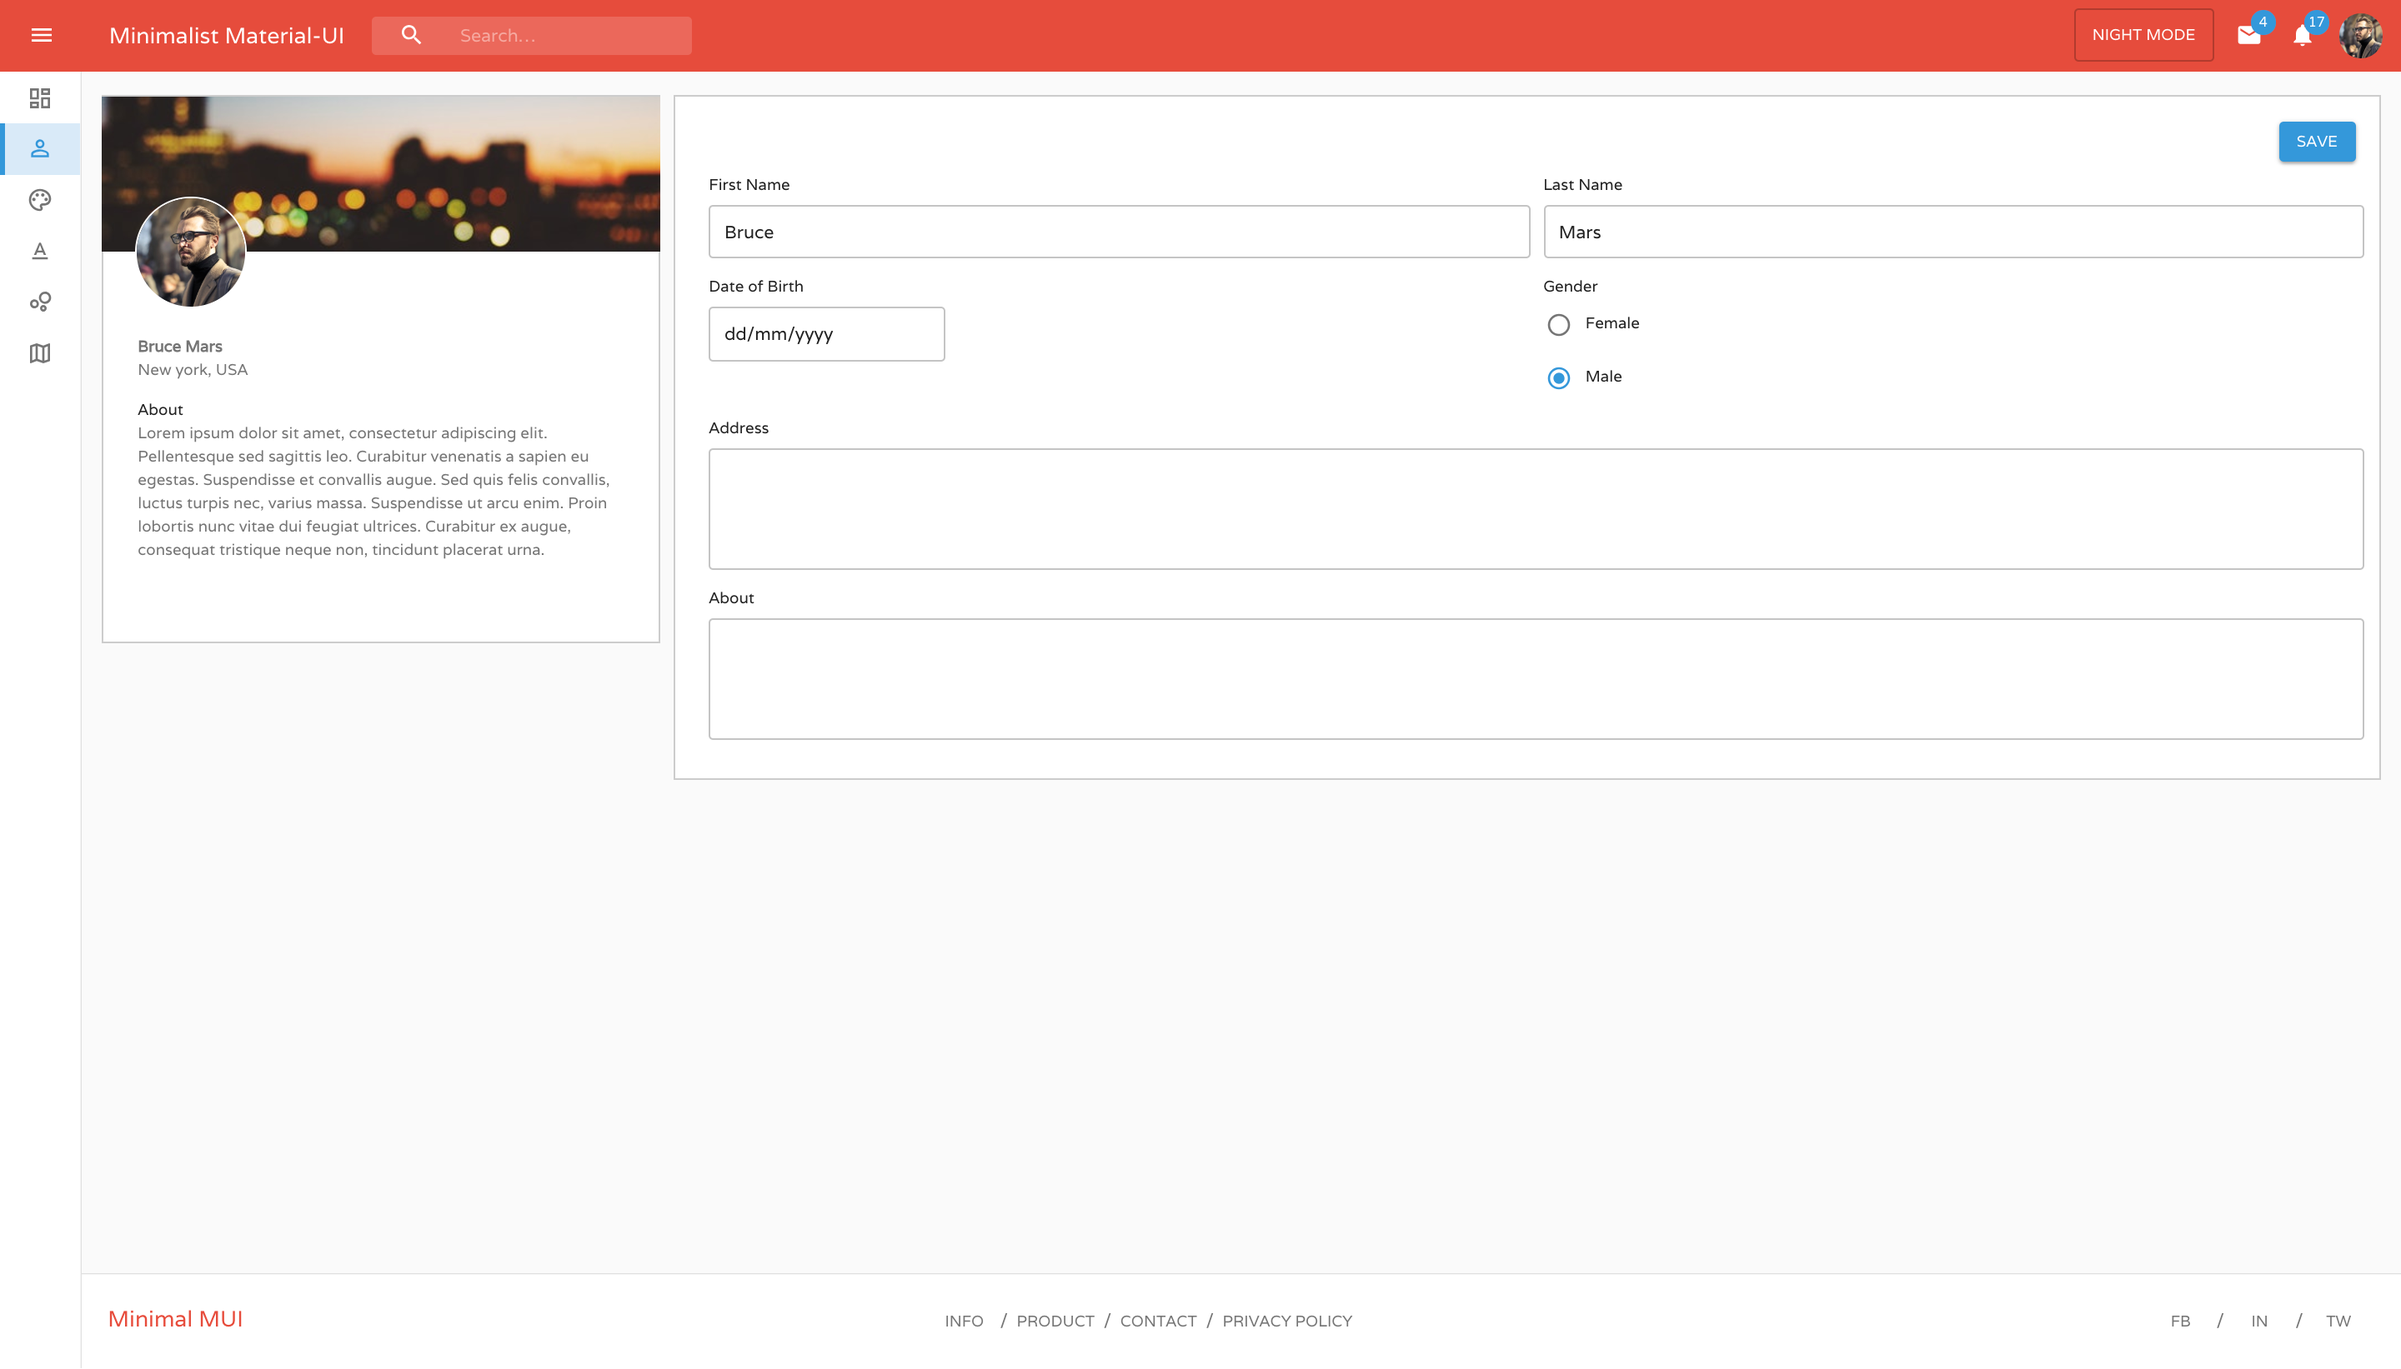
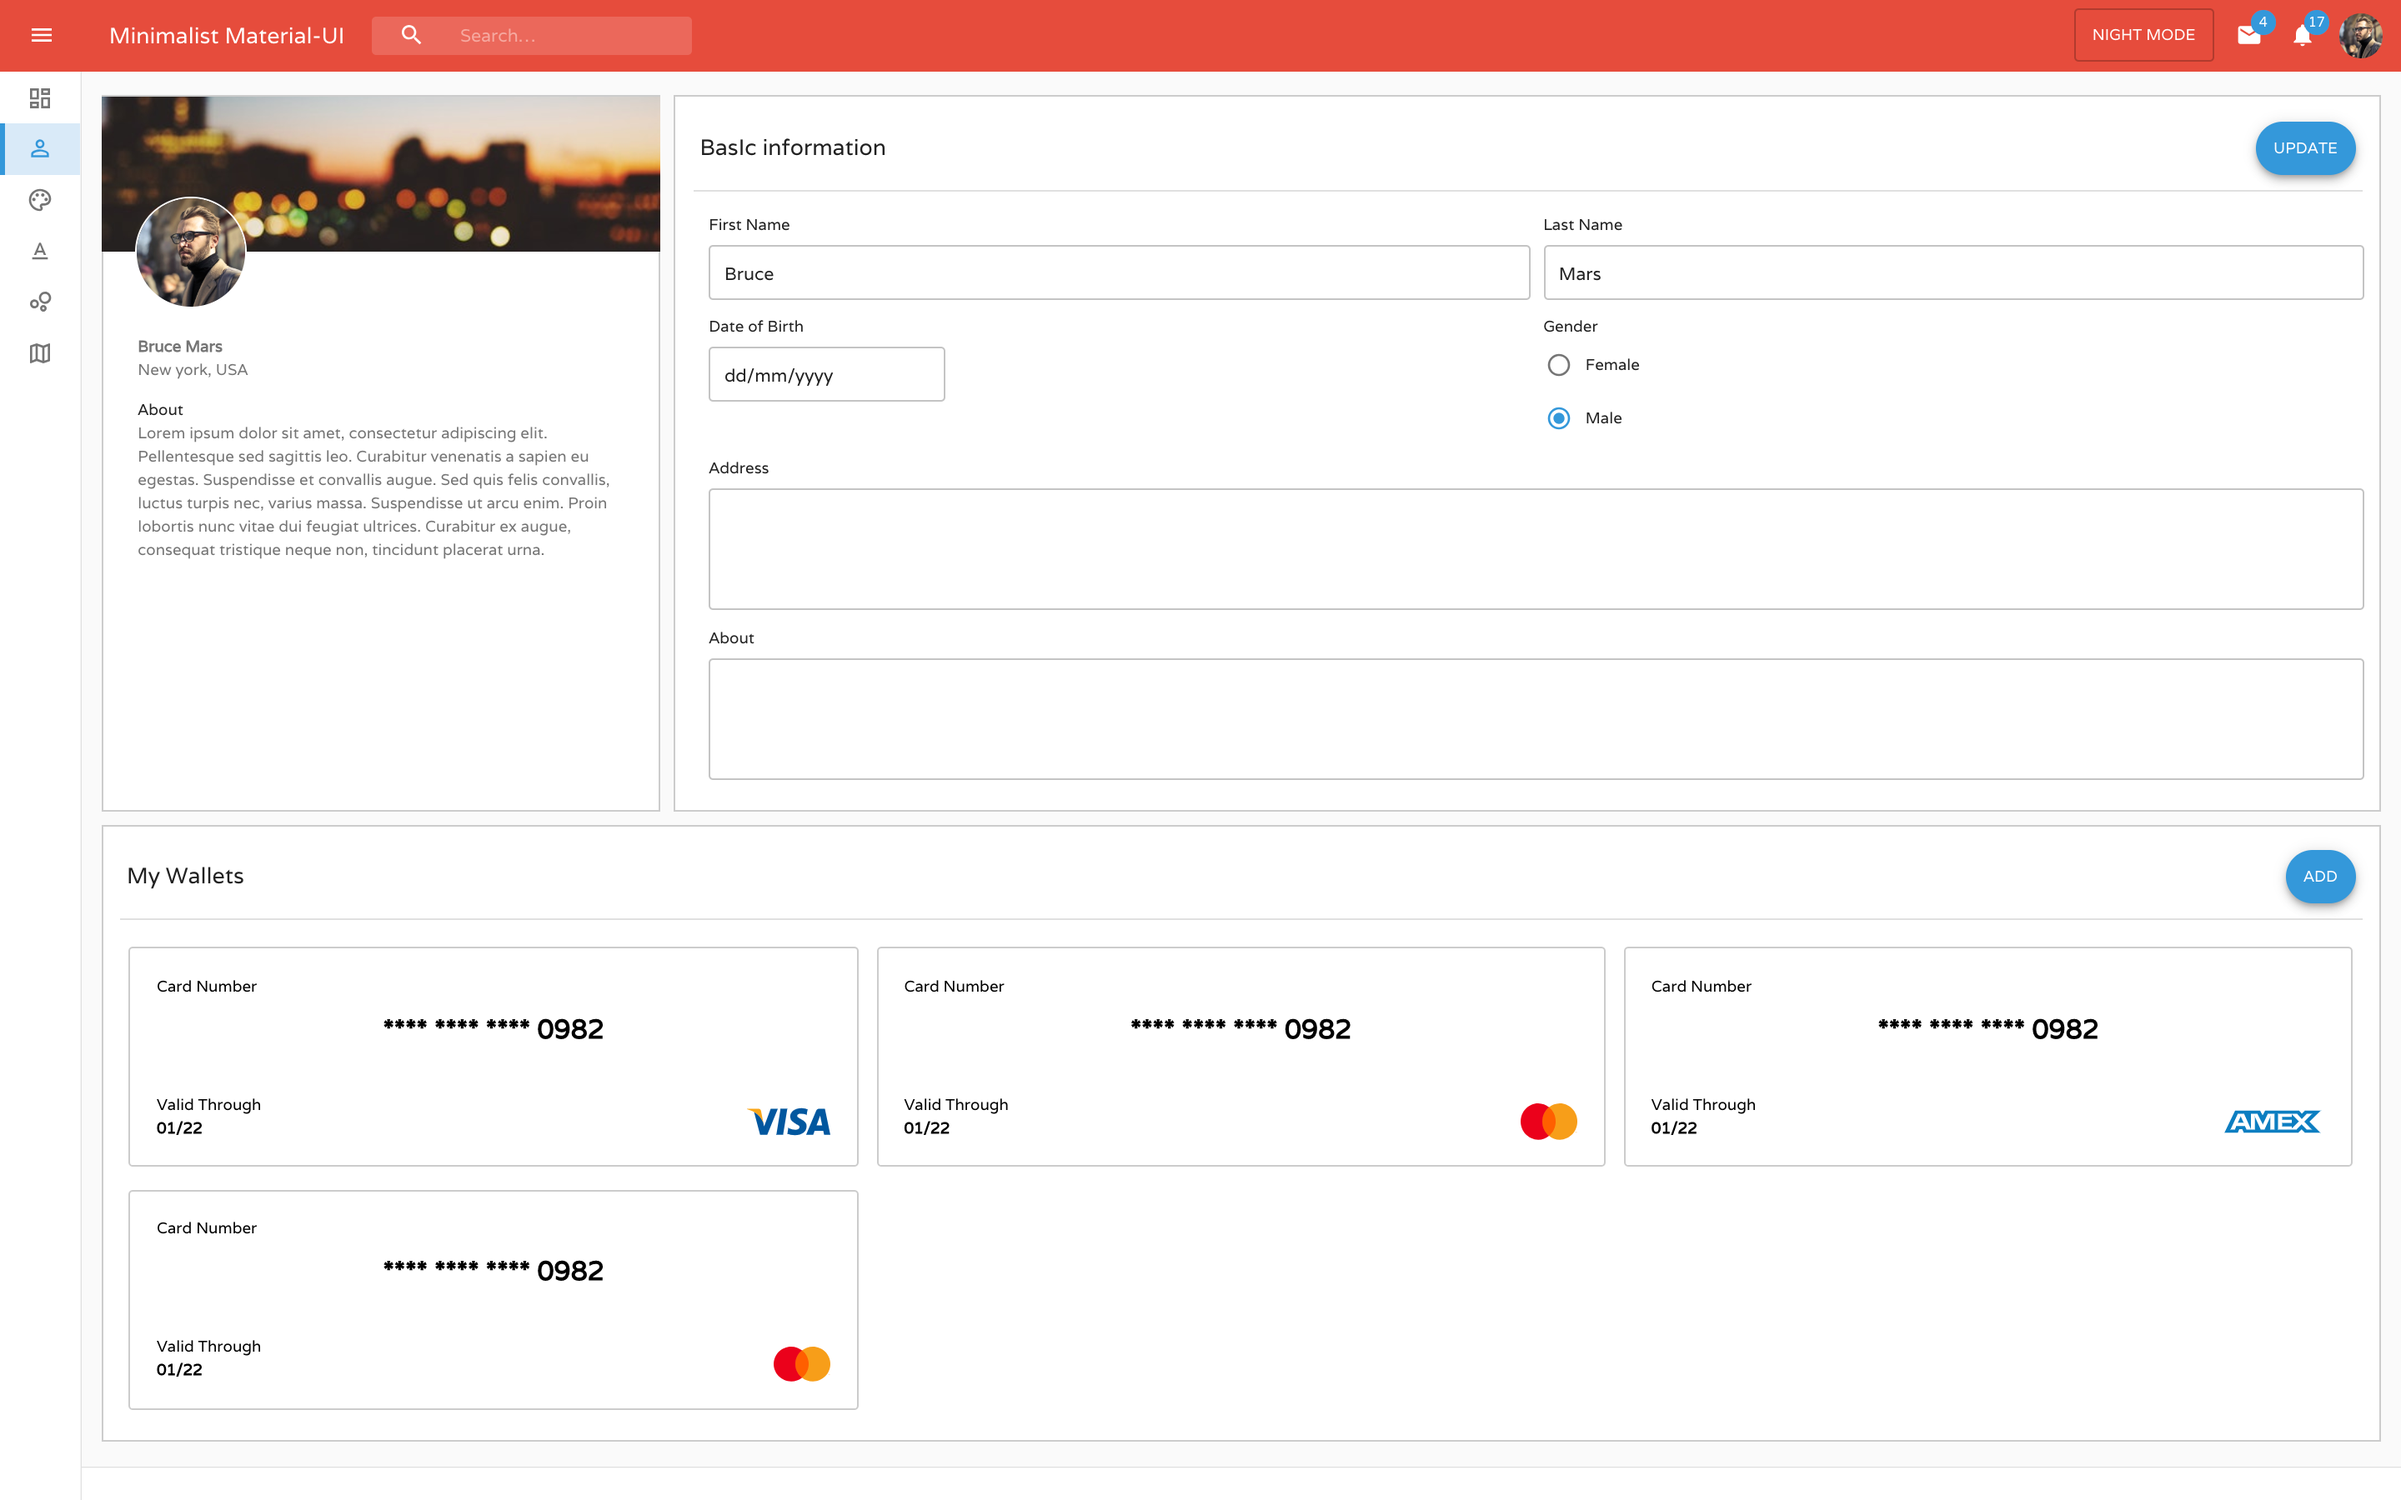
Add Wallet UI

diff --git a/src/views/Profile/Profile.jsx b/src/views/Profile/Profile.jsx
@@ -1,7 +1,32 @@
 
 import { makeStyles } from "@material-ui/styles";
 import React from "react";
-import { Avatar, Button, FormControl, FormControlLabel, Grid, Paper, Radio, RadioGroup, TextField, Typography } from "../../../node_modules/@material-ui/core";
+import { Avatar, Divider, FormControl, FormControlLabel, Grid, Paper, Radio, RadioGroup, TextField, Typography, Fab } from "../../../node_modules/@material-ui/core";
+import CreditCard from "../../components/Card/CreditCard";
+
+
+const cards = [
+    {
+        cardNumber: "**** **** **** 0982",
+        expireDate: "01/22",
+        cardType: "visa"
+    },
+    {
+        cardNumber: "**** **** **** 0982",
+        expireDate: "01/22",
+        cardType: "mastercard"
+    },
+    {
+        cardNumber: "**** **** **** 0982",
+        expireDate: "01/22",
+        cardType: "amex"
+    },
+    {
+        cardNumber: "**** **** **** 0982",
+        expireDate: "01/22",
+        cardType: "mastercard"
+    }
+]
 
 const useStyles = makeStyles(theme => ({
     avatar: {
@@ -24,18 +49,23 @@ const useStyles = makeStyles(theme => ({
     },
 }))
 
+const Heading = ({ title, buttonName, onActionClick }) => (
+    <React.Fragment>
+        <Typography variant="h6" style={{ float: "left", margin: "8px 0" }}>{title}</Typography>
+        <Fab variant="extended" color="secondary" style={{ float: "right" }} onClick={onActionClick}>{buttonName}</Fab>
+    </React.Fragment>
+)
 function Profile() {
     const classes = useStyles();
     return (
         <Grid container>
             <Grid className={classes.gridItem} item xs={12} sm={12} md={3}>
                 <Paper square style={{
-                    minHeight: "40vh",
-                    paddingBottom:16
+                    height:"100%",
+                    paddingBottom: 16
                 }}>
                     <div style={{
-                        // background: "linear-gradient(to right, #2196f3, #f44336)",
-                        background:`url(${require("../../assets/img/banner1.jpg")})`,
+                        background: `url(${require("../../assets/img/banner1.jpg")})`,
                         backgroundPosition: "center",
                         height: 140
                     }} />
@@ -72,16 +102,15 @@ function Profile() {
             </Grid>
             <Grid className={classes.gridItem} item xs={12} sm={12} md={9}>
                 <Paper square style={{
-                    minHeight: "50vh",
+                    height:"100%",
+
                 }}>
                     <Grid container style={{ padding: "16px 16px" }}>
-                        <Grid item xs={12} sm={12} md={12} className={classes.gridItem}
-                            style={{
-                                textAlign: "right"
-                            }}>
-                            <Button variant="contained" color="secondary" >
-                                Save
-                            </Button>
+                        <Grid item xs={12} sm={12} md={12} className={classes.gridItem}>
+                            <Heading title="BasIc information" buttonName="update" />
+                        </Grid>
+                        <Grid item xs={12} sm={12} md={12} style={{ marginBottom: 16, marginTop: 8 }}>
+                            <Divider />
                         </Grid>
                         <Grid item xs={12} sm={12} md={6} className={classes.gridItem} >
                             <Typography style={{ marginLeft: 8 }}>First Name</Typography>
@@ -166,6 +195,27 @@ function Profile() {
                                 variant="outlined"
                             />
                         </Grid>
+                    </Grid>
+                </Paper>
+            </Grid>
+            <Grid className={classes.gridItem} item xs={12} sm={12} md={12}>
+                <Paper square style={{
+                    minHeight: "10vh",
+                }}>
+                    <Grid container style={{ padding: "16px 16px" }}>
+                        <Grid item xs={12} sm={12} md={12} className={classes.gridItem}>
+                            <Heading title="My Wallets" buttonName="Add" />
+                        </Grid>
+                        <Grid item xs={12} sm={12} md={12} style={{ marginBottom: 16, marginTop: 8 }}>
+                            <Divider />
+                        </Grid>
+                        {
+                            cards.map((card, index) => (
+                                <Grid key={index} item xs={12} sm={12} md={4} className={classes.gridItem} >
+                                    <CreditCard {...card} />
+                                </Grid>)
+                            )
+                        }
                     </Grid>
                 </Paper>
             </Grid>

diff --git a/src/components/Card/CreditCard.jsx b/src/components/Card/CreditCard.jsx
@@ -1,0 +1,53 @@
+import React from "react"
+import { makeStyles } from "@material-ui/styles";
+import { Paper, Typography } from "../../../node_modules/@material-ui/core";
+import PropTypes from 'prop-types';
+
+const useStyles = makeStyles(theme => ({
+    paper: {
+        padding: 24,
+        marginTop: "2px",
+        marginBottom: "6px",
+        marginLeft: 2,
+        marginRight: 2,
+    }
+}))
+function Card({ cardNumber = "-", expireDate = "-", icon, cardType: type, background = "white" }) {
+    const classes = useStyles();
+    return <Paper className={classes.paper} style={{
+        background,
+    }}>
+
+        <div style={{ position: "relative" }}>
+            <Typography color={"inherit"} variant={"subtitle2"}>Card Number</Typography>
+            <Typography color={"inherit"} variant={"h5"} style={{ fontWeight: "bolder", marginTop: 12, textAlign: "center" }}>
+                {cardNumber}
+            </Typography>
+            <br />
+            <br />
+            <Typography color={"inherit"} variant={"subtitle2"}>Valid Through</Typography>
+            <Typography color={"inherit"} variant={"subtitle2"}
+                style={{ fontWeight: "bolder" }}>{expireDate}</Typography>
+            {
+                icon ? icon :
+                    <img alt={type} src={require("../../assets/svg/" + type + ".svg")} height="32px"
+                        style={{
+                            position: "absolute",
+                            right: 0,
+                            bottom: 0
+                        }} />
+            }
+        </div>
+    </Paper>
+}
+
+
+Card.propTypes = {
+    cardNumber: PropTypes.string,
+    expireDate: PropTypes.string,
+    cardType: PropTypes.oneOf(["visa", "mastercard", "amex"]),
+    background: PropTypes.string,
+    icon: PropTypes.element
+};
+
+export default Card;
